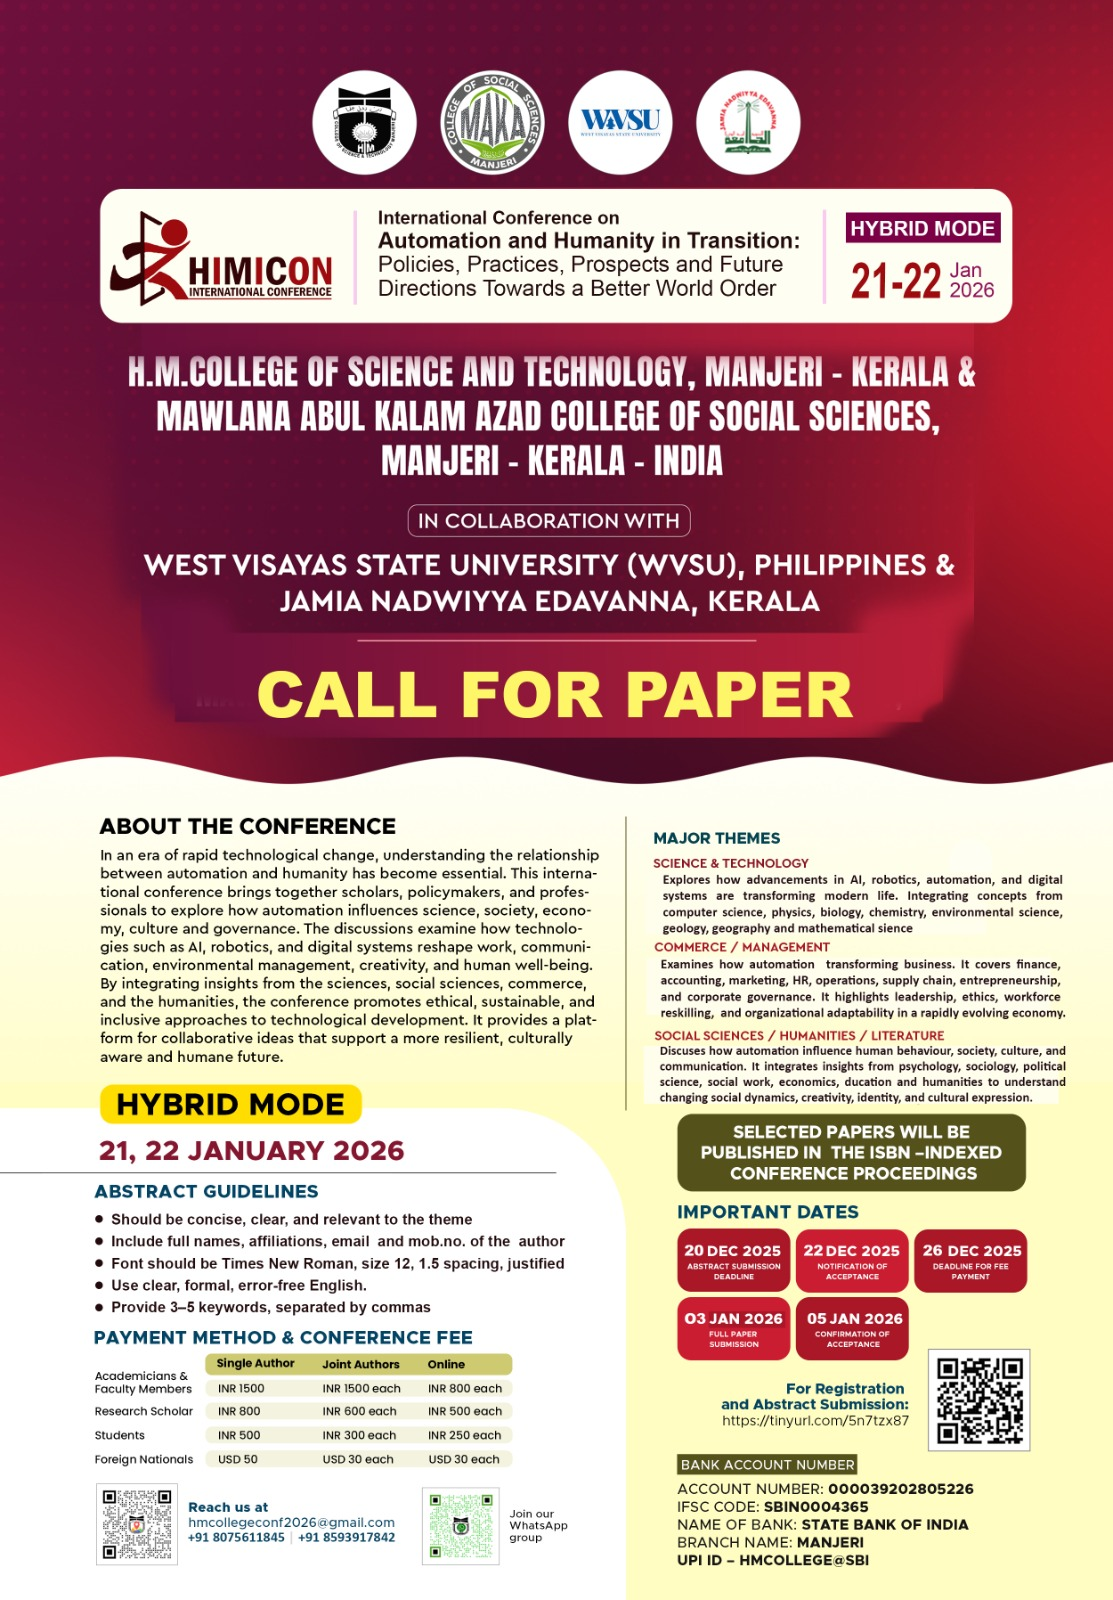
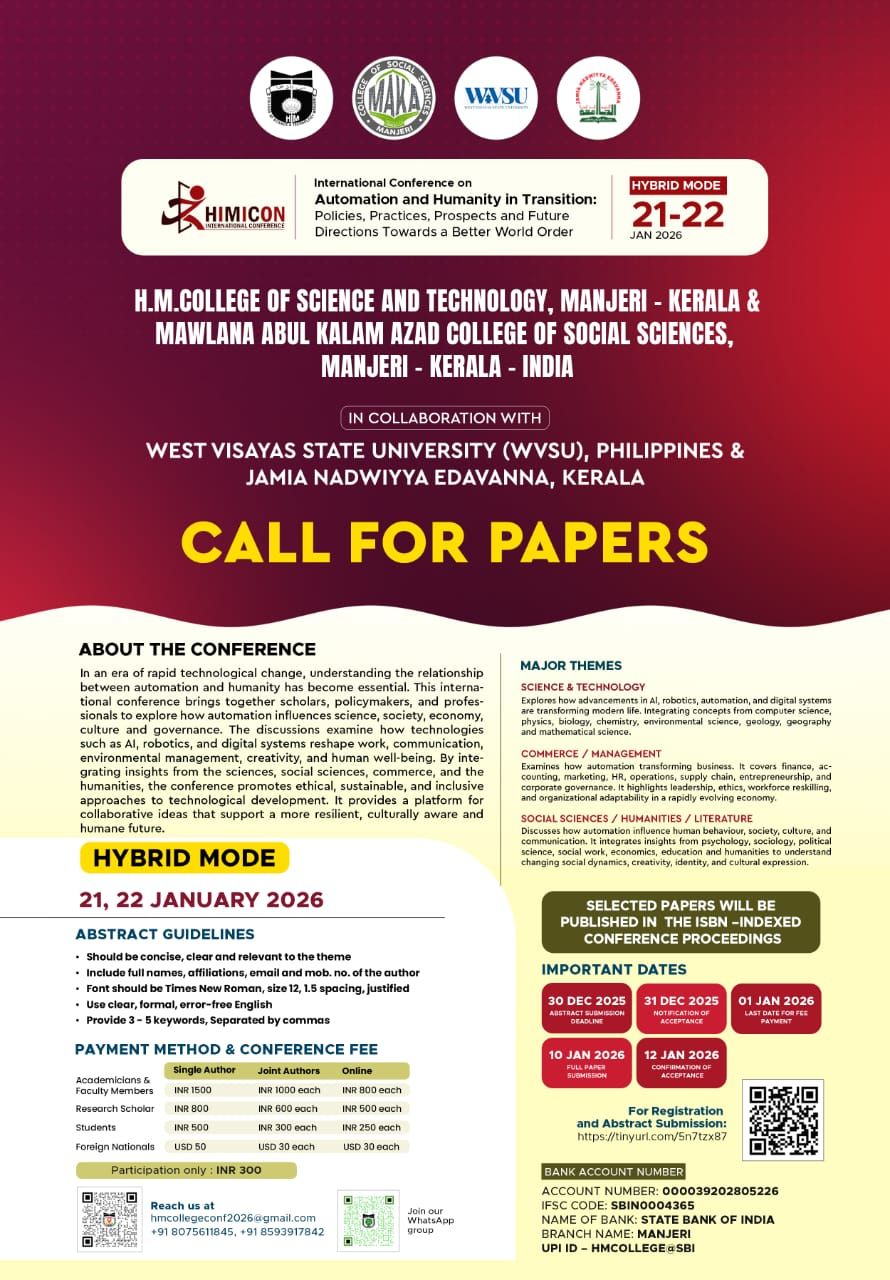
feat: update date and add scrolling text

diff --git a/src/components/Domains/Domains.tsx b/src/components/Domains/Domains.tsx
@@ -26,11 +26,11 @@ const domains = [
 ];
 
 const importantDates = [
-  { event: "Abstract Submission Deadline", date: "20 DEC 2025" },
-  { event: "Notification of Acceptance", date: "22 DEC 2025" },
-  { event: "Deadline for Fee Payment", date: "26 DEC 2025" },
-  { event: "Full Paper Submission", date: "03 JAN 2026" },
-  { event: "Confirmation of Acceptance", date: "05 JAN 2026" },
+  { event: "Abstract Submission Deadline", date: "30 DEC 2025" },
+  { event: "Notification of Acceptance", date: "31 DEC 2025" },
+  { event: "Deadline for Fee Payment", date: "01 JAN 2026" },
+  { event: "Full Paper Submission", date: "10 JAN 2026" },
+  { event: "Confirmation of Acceptance", date: "12 JAN 2026" },
   { event: "Conference Date", date: "21, 22 JAN 2026" }
 ];
 

diff --git a/src/components/Announcement/Announcement.module.css b/src/components/Announcement/Announcement.module.css
@@ -1,0 +1,32 @@
+.container {
+  width: 100%;
+  background-color: var(--primary);
+  color: white;
+  overflow: hidden;
+  padding: 10px 0;
+  position: relative;
+  z-index: 100;
+  box-shadow: 0 2px 10px rgba(0,0,0,0.1);
+}
+
+.scrollingText {
+  display: inline-block;
+  white-space: nowrap;
+  animation: scroll 20s linear infinite;
+  font-weight: 600;
+  font-size: 1.1rem;
+  padding-left: 100%;
+}
+
+@keyframes scroll {
+  0% {
+    transform: translateX(0);
+  }
+  100% {
+    transform: translateX(-100%);
+  }
+}
+
+.scrollingText:hover {
+  animation-play-state: paused;
+}

diff --git a/src/App.tsx b/src/App.tsx
@@ -1,4 +1,5 @@
 import Background from './components/Background/Background';
+import Announcement from './components/Announcement/Announcement';
 import Hero from './components/Hero/Hero';
 import About from './components/About/About';
 import Domains from './components/Domains/Domains';
@@ -9,6 +10,7 @@ function App() {
   return (
     <>
       <Background />
+      <Announcement />
       <Hero />
       <About />
       <Domains />

diff --git a/src/components/Announcement/Announcement.tsx b/src/components/Announcement/Announcement.tsx
@@ -1,0 +1,11 @@
+import styles from './Announcement.module.css';
+
+export default function Announcement() {
+  return (
+    <div className={styles.container}>
+      <div className={styles.scrollingText}>
+        📢 Abstract submission date has been extended to 30 Dec 2025! Submit your papers now! 📢
+      </div>
+    </div>
+  );
+}
